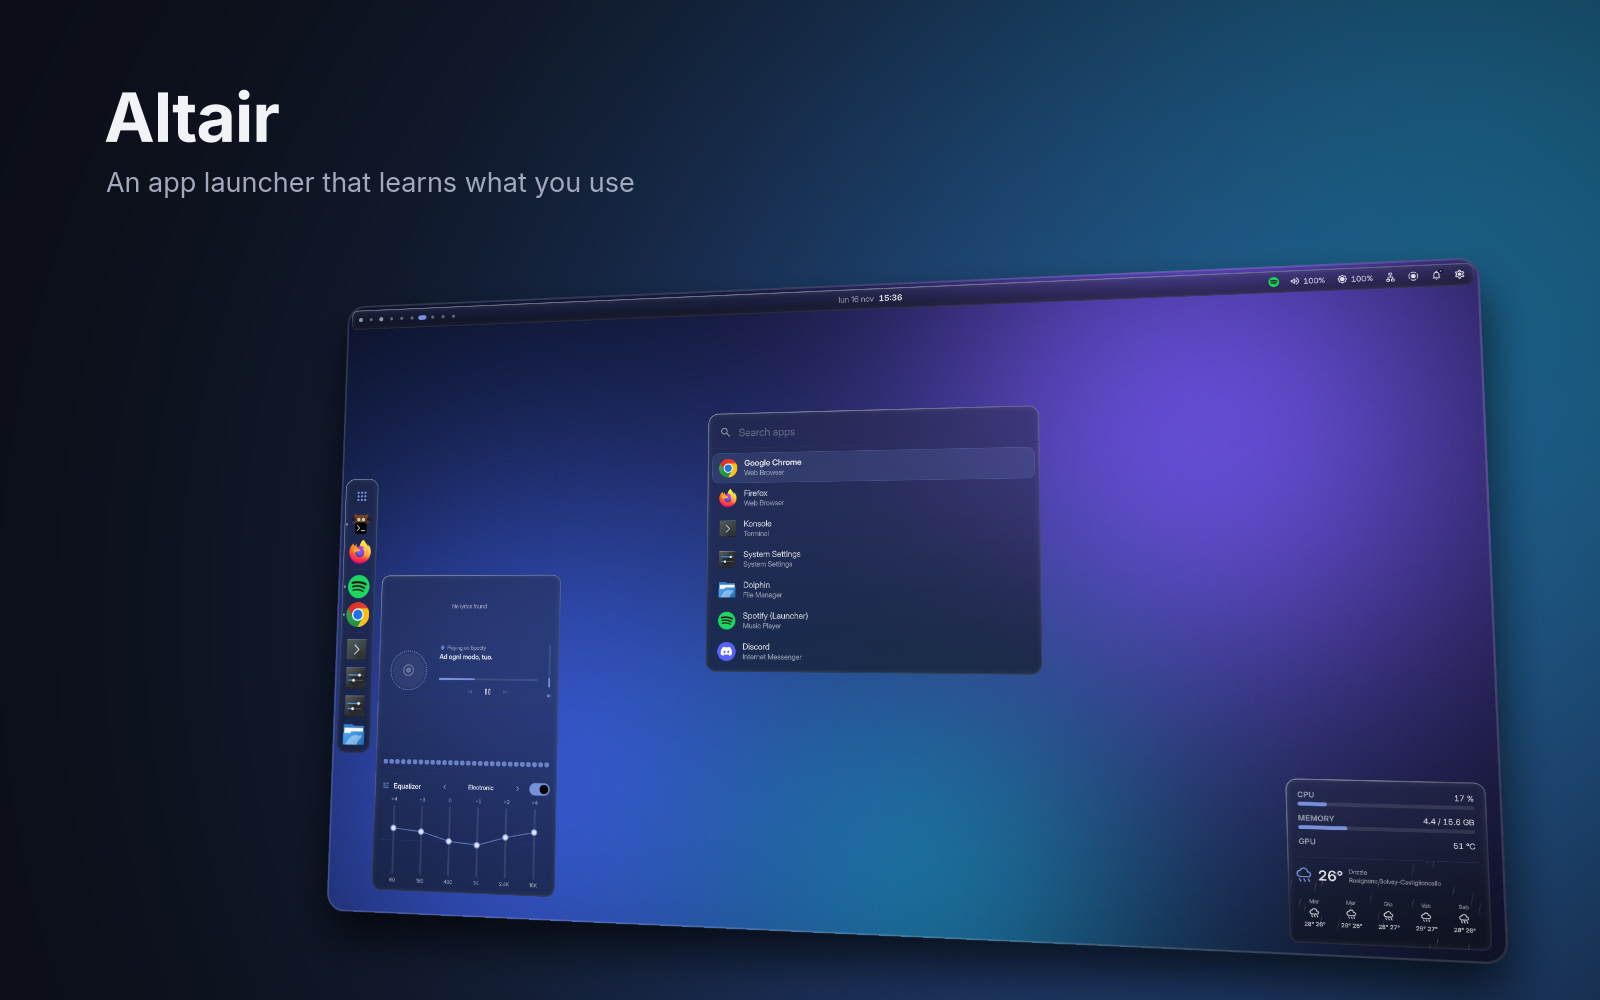
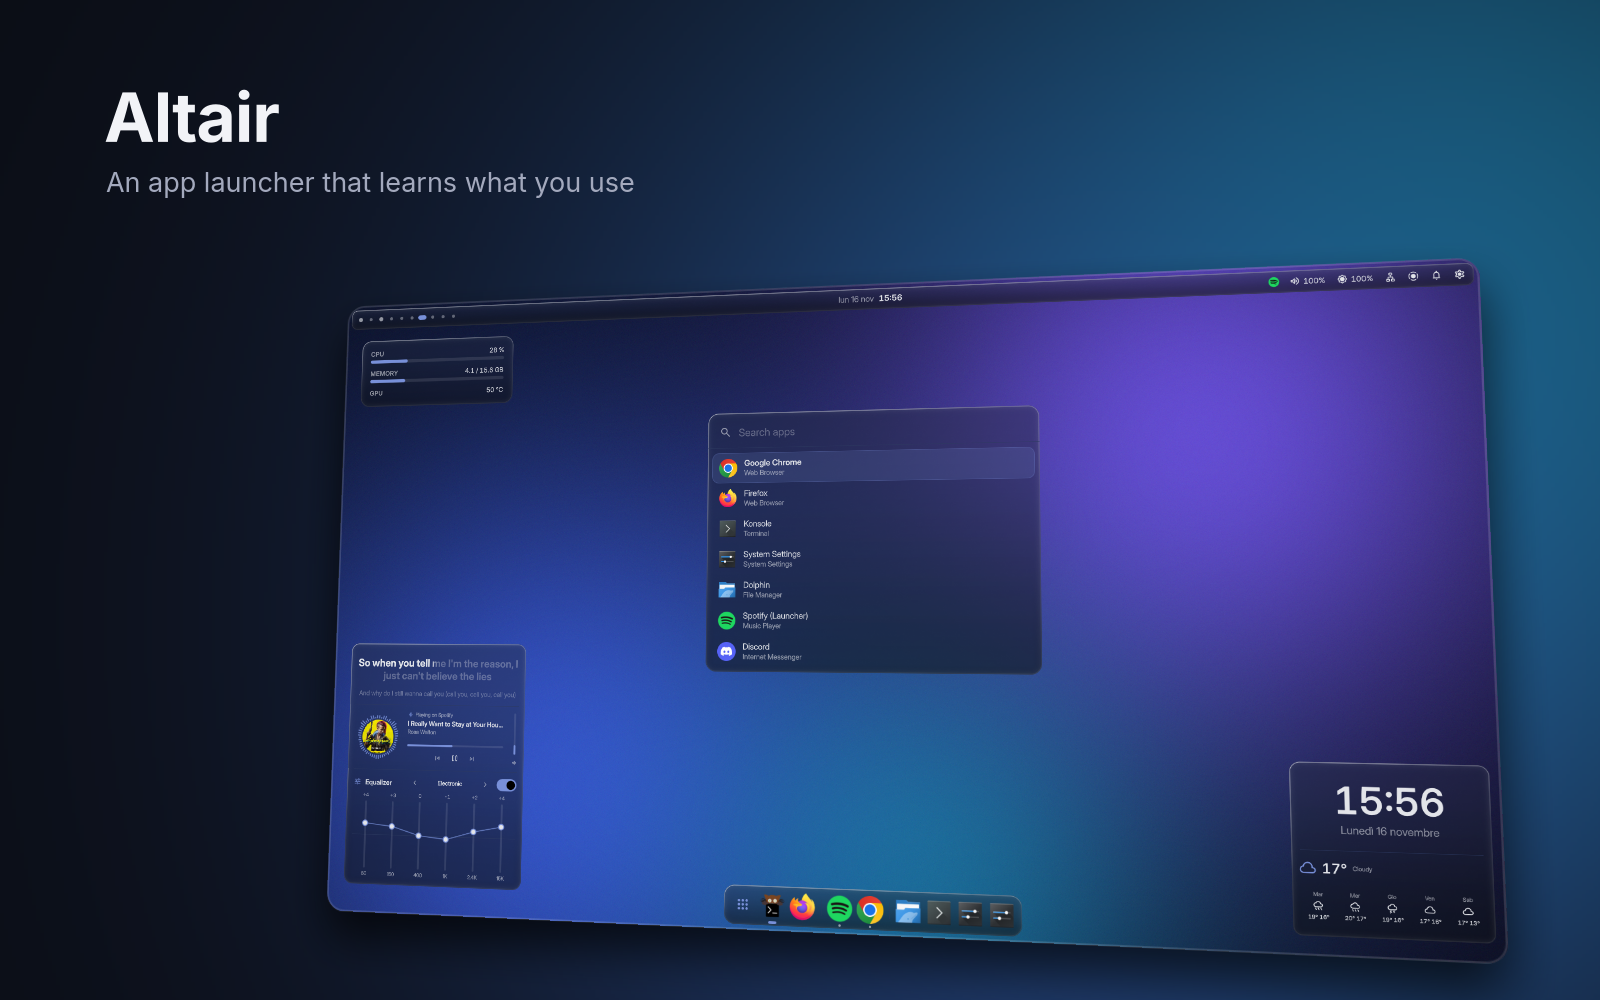
docs: six screenshots (calendar and bar/dock layout added), place hidden

diff --git a/CREDITS.md b/CREDITS.md
@@ -34,12 +34,12 @@ The live wallpapers in the screenshots are not part of Altair and are not
 in this repository; they belong to their owners and were downloaded from
 [MoeWalls](https://moewalls.com):
 
-- "City at Night" (desktop) and "Lucyna Space Station" (wallpaper picker):
+- "City at Night" (desktop, calendar) and "Lucyna Space Station" (wallpaper picker):
   art from *Cyberpunk 2077* / *Cyberpunk: Edgerunners*, © CD PROJEKT RED.
 - "Forest Pines" (Settings).
 - The other thumbnails in the wallpaper picker are from the developer's own
   wallpaper folder.
-- The launcher screenshot uses Altair's own "Aurora" wallpaper.
+- The launcher and layout screenshots use Altair's own "Aurora" wallpaper.
 
 If you add an asset to the repository (an image, a sound, a font), it must
 have a free licence and be listed here.

diff --git a/README.md b/README.md
@@ -12,11 +12,15 @@ frosted glass, smooth motion and close to zero CPU when idle.
 
 ## Screenshots
 
+![Clock popup with calendar and weather](docs/screenshots/calendar.png)
+
 ![Settings with palettes and accent colours](docs/screenshots/settings.png)
 
 ![Wallpaper carousel](docs/screenshots/wallpapers.png)
 
 ![App launcher](docs/screenshots/launcher.png)
+
+![Bar at the bottom, dock on the right](docs/screenshots/layout.png)
 
 <sub>Regenerate with `docs/screenshots/make.sh` from raw 1920x1080 screenshots.</sub>
 
